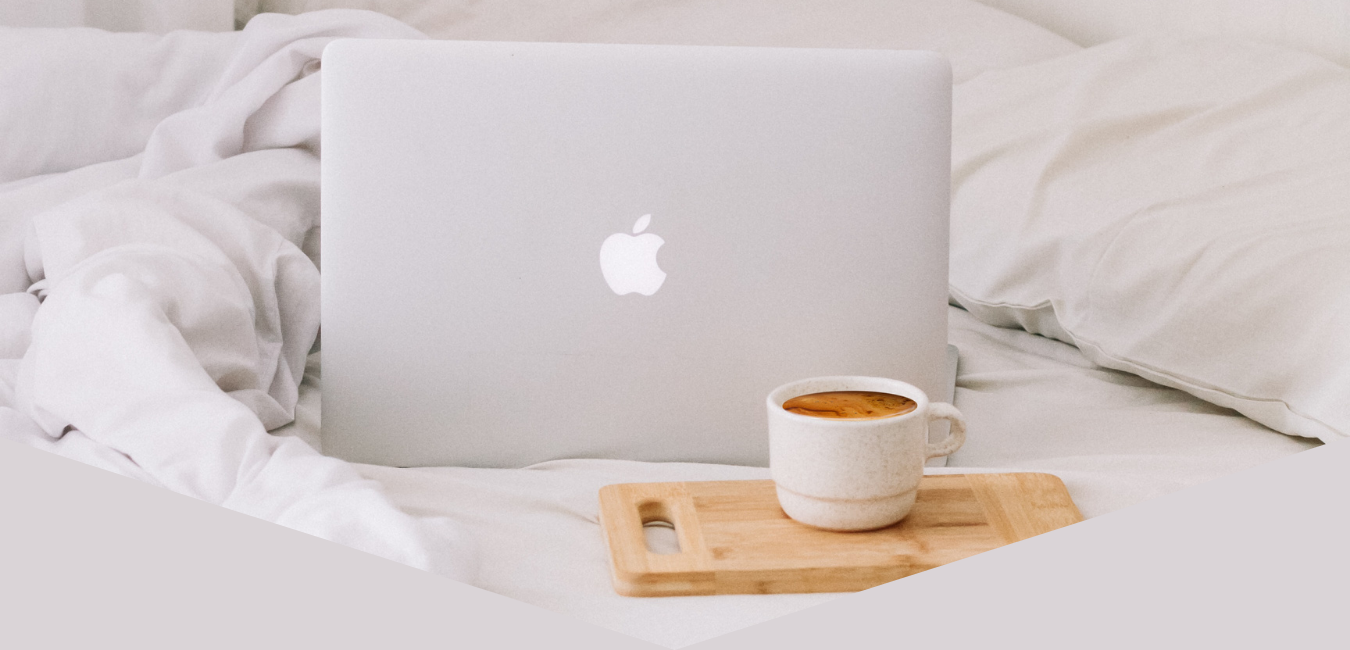
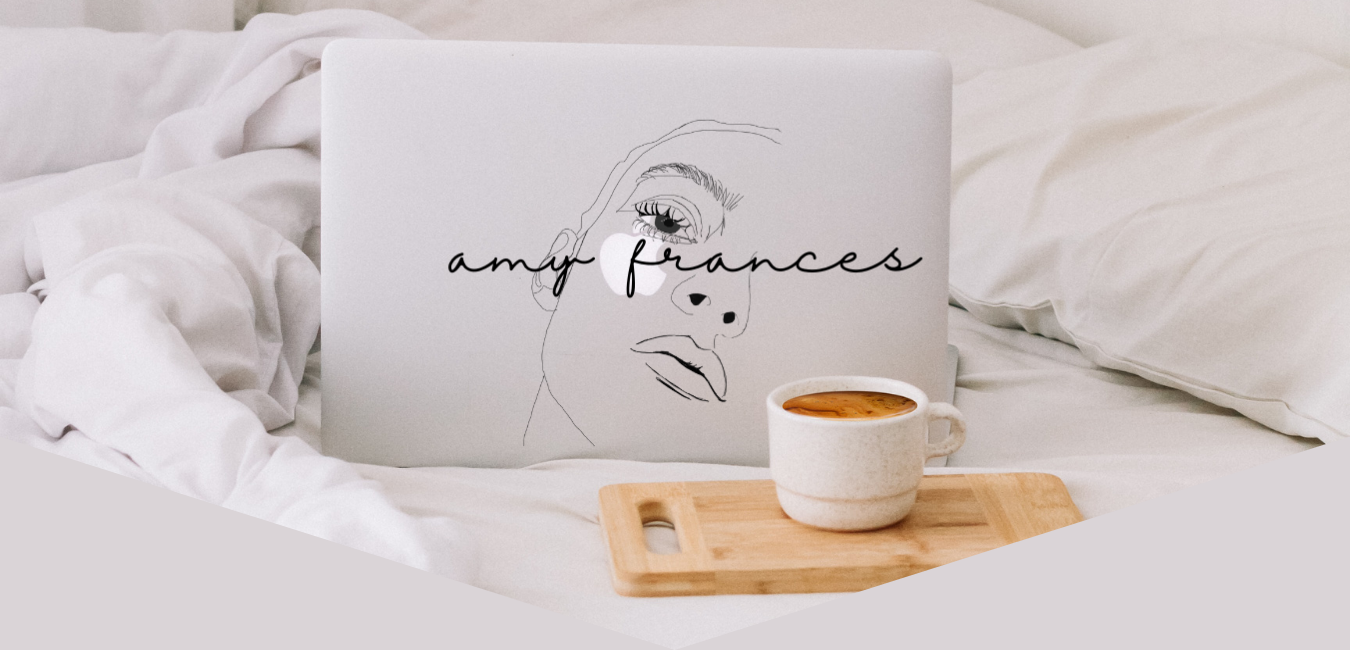
hero image update

diff --git a/style.css b/style.css
@@ -63,17 +63,6 @@ a {
 
         /*<hero styles */
 
-        /* .hero {
-            background-image: url("./assets/images/hero-image.png");
-            background-size: cover;
-            background-position: center;
-            display: flex;
-            justify-content: center;
-            flex-wrap: wrap;
-            align-items: flex-start;
-            height: 700px;
-        } */
-
 .hero {
     position: relative;
 }
